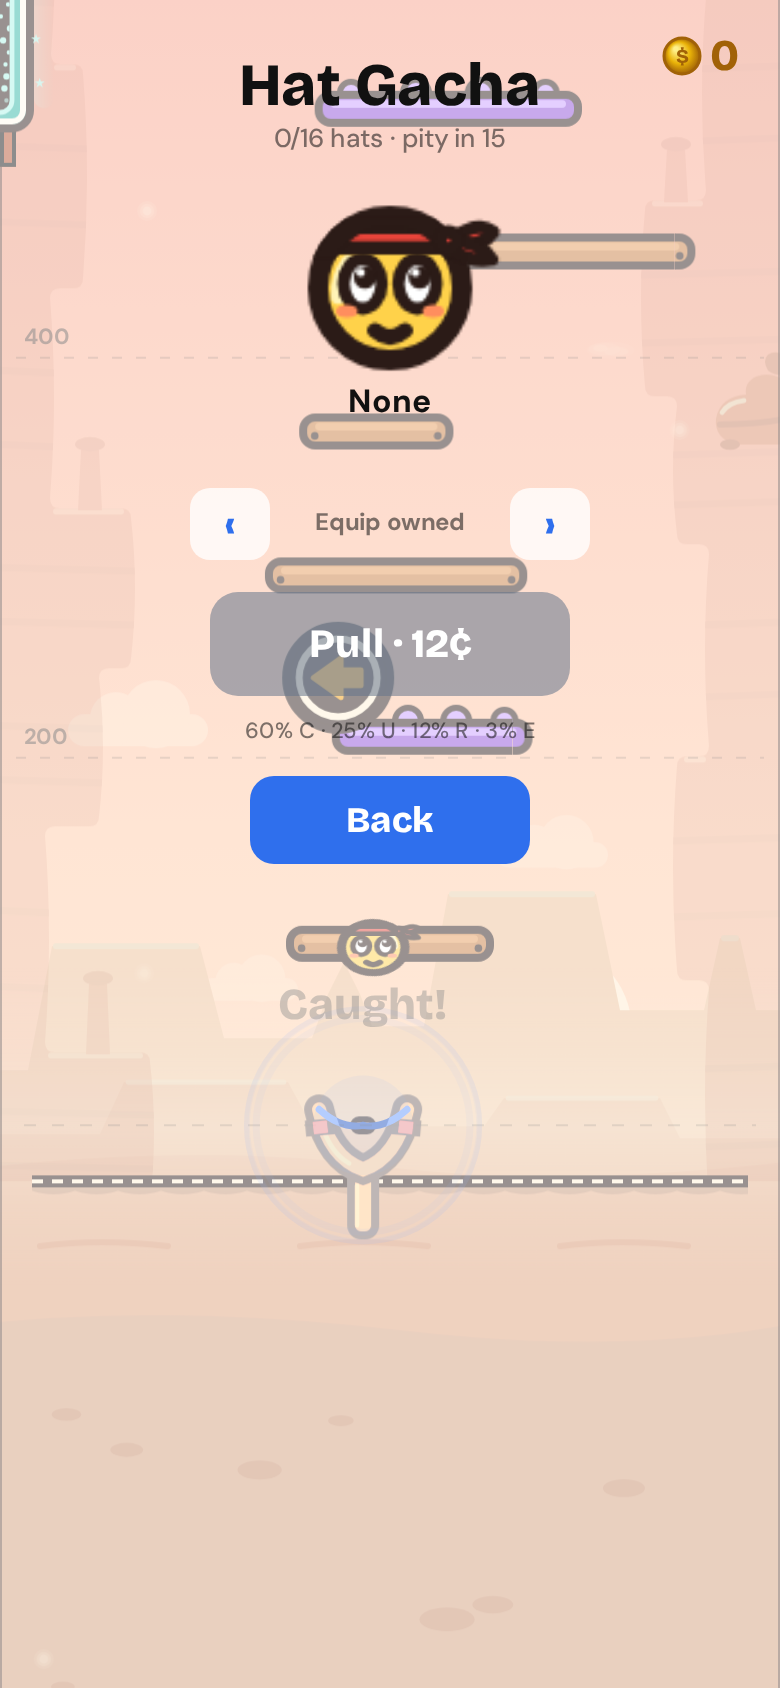
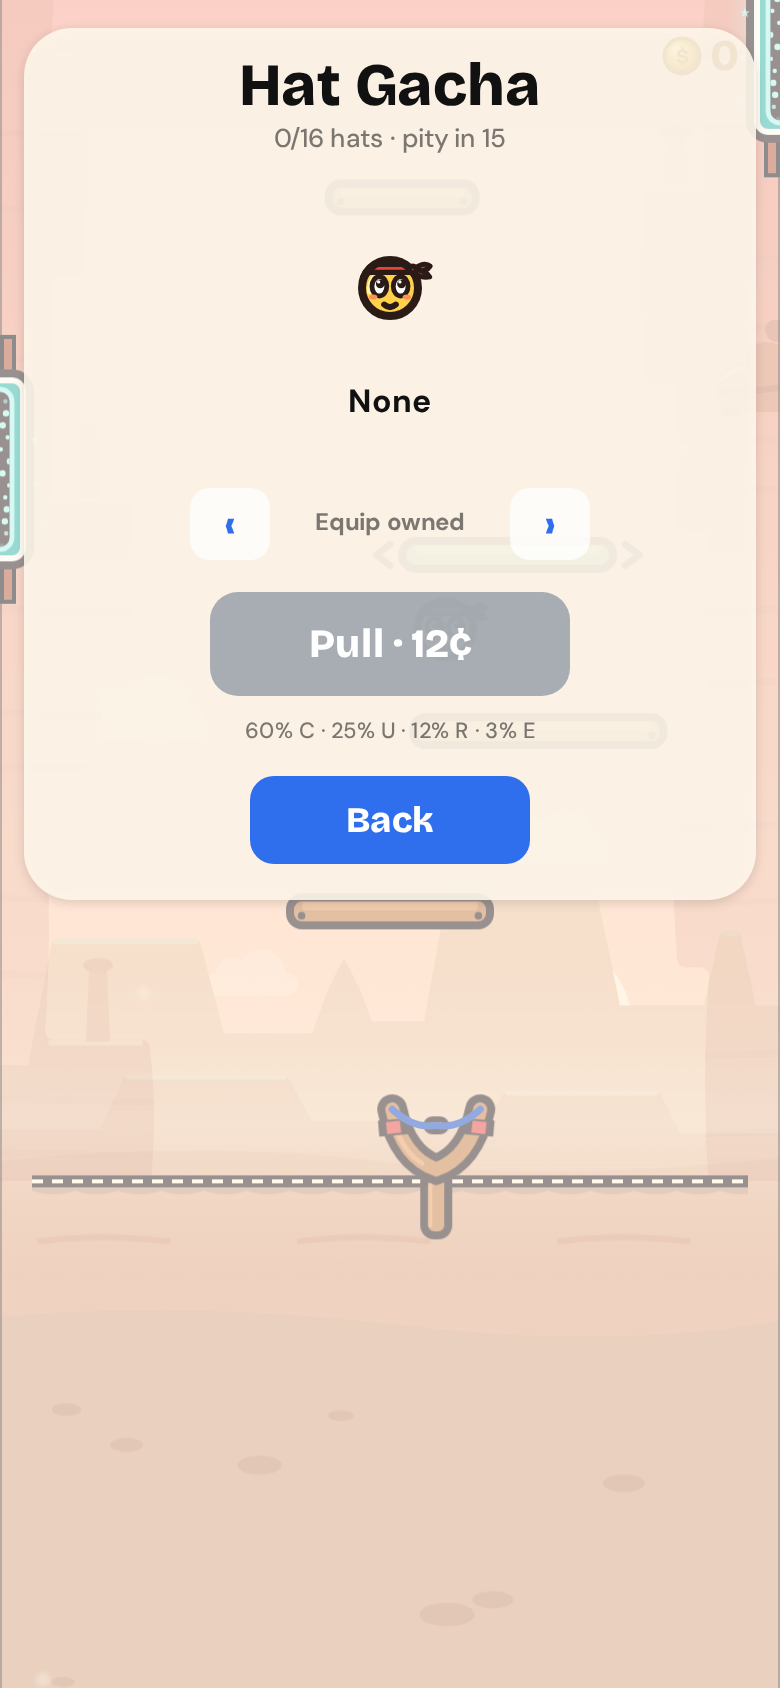
Draw gacha previews at the title-ball scale and panel the shop cards.
The layout radius was scaling ball_classic and the headband ink restroke
up together, so Hat and Trail previews read as a dark disc. Shop, Hats,
and Trails now use the title cream panel and hide the ruler, score pops,
launch guide, and catch burst.

diff --git a/src/game/Renderer.ts b/src/game/Renderer.ts
@@ -1206,17 +1206,7 @@ export class Renderer {
       const tapY = tagY + 36 + (showBests ? 50 : 8) + 52 + 48 + 42
       const panelTop = tagY - 14
       const panelBottom = tapY + 16
-      const panelX = 12
-      const panelW = width - 24
-      ctx.save()
-      ctx.shadowColor = "rgba(43, 27, 23, 0.18)"
-      ctx.shadowBlur = 12
-      ctx.shadowOffsetY = 3
-      ctx.fillStyle = "rgba(255, 248, 236, 0.88)"
-      ctx.beginPath()
-      roundRect(ctx, panelX, panelTop, panelW, panelBottom - panelTop, 24)
-      ctx.fill()
-      ctx.restore()
+      fillCreamPanel(ctx, 12, panelTop, width - 24, panelBottom - panelTop)
     }
 
     if (logo && logoPlace) {
@@ -1871,6 +1861,18 @@ export class Renderer {
     drawLifetimeCoins(ctx, width, lifetimeCoins)
 
     const topPad = 36 + safeAreaInsetTop()
+    const previewY = topPad + 108
+    const equipY = previewY + 100
+    const pullH = 52
+    const pullY = equipY + 52
+    const backH = 44
+    const backY = Math.min(height - backH - 20, pullY + pullH + 40)
+    if (!revealing && this.useArt()) {
+      const panelTop = topPad - 22
+      const panelBottom = backY + backH + 18
+      fillCreamPanel(ctx, 12, panelTop, width - 24, panelBottom - panelTop)
+    }
+
     ctx.textAlign = "center"
     ctx.textBaseline = "middle"
     ctx.fillStyle = theme.ink
@@ -1886,7 +1888,6 @@ export class Renderer {
       topPad + 34,
     )
 
-    const previewY = topPad + 108
     if (!revealing) {
       ctx.save()
       ctx.translate(cx, previewY)
@@ -1919,7 +1920,6 @@ export class Renderer {
     }
 
     const arrowW = 40
-    const equipY = previewY + 100
     const equipPrev: ScreenRect = { x: cx - 100, y: equipY, w: arrowW, h: 36 }
     const equipNext: ScreenRect = { x: cx + 60, y: equipY, w: arrowW, h: 36 }
     if (!revealing) {
@@ -1941,10 +1941,9 @@ export class Renderer {
 
     const canAfford = lifetimeCoins >= GACHA_PULL_COST
     const pullW = 180
-    const pullH = 52
     const pull: ScreenRect = {
       x: cx - pullW / 2,
-      y: equipY + 52,
+      y: pullY,
       w: pullW,
       h: pullH,
     }
@@ -1963,10 +1962,9 @@ export class Renderer {
     }
 
     const backW = 140
-    const backH = 44
     const back: ScreenRect = {
       x: cx - backW / 2,
-      y: Math.min(height - backH - 20, pull.y + pullH + 40),
+      y: backY,
       w: backW,
       h: backH,
     }
@@ -2032,6 +2030,18 @@ export class Renderer {
     drawLifetimeCoins(ctx, width, lifetimeCoins)
 
     const topPad = 36 + safeAreaInsetTop()
+    const pickerH = 64
+    const rowGap = 56
+    const rowsTop = topPad + 56
+    const backH = 44
+    const ballPickerY = rowsTop + 2 * (pickerH + rowGap)
+    const backY = Math.min(height - backH - 20, ballPickerY + pickerH + 36)
+    if (this.useArt()) {
+      const panelTop = topPad - 22
+      const panelBottom = backY + backH + 18
+      fillCreamPanel(ctx, 12, panelTop, width - 24, panelBottom - panelTop)
+    }
+
     ctx.textAlign = "center"
     ctx.textBaseline = "middle"
     ctx.fillStyle = theme.ink
@@ -2041,10 +2051,7 @@ export class Renderer {
     const arrowW = 34
     const iconBox = 48
     const pickerW = arrowW + iconBox + arrowW
-    const pickerH = 64
-    const rowGap = 56
     const labelOffset = 22
-    const rowsTop = topPad + 56
     const rows = [
       {
         kind: "slingshot" as const,
@@ -2139,10 +2146,9 @@ export class Renderer {
     }
 
     const backW = 140
-    const backH = 44
     const back: ScreenRect = {
       x: cx - backW / 2,
-      y: Math.min(height - backH - 20, ballRow.picker.y + ballRow.picker.h + 36),
+      y: backY,
       w: backW,
       h: backH,
     }
@@ -2778,6 +2784,25 @@ function drawMenuCoinIcon(
   ctx.textAlign = "center"
   ctx.textBaseline = "middle"
   ctx.fillText("$", x, y + 0.5)
+  ctx.restore()
+}
+
+/** Title-screen card: cream fill, r24, soft ink shadow. */
+function fillCreamPanel(
+  ctx: CanvasRenderingContext2D,
+  x: number,
+  y: number,
+  w: number,
+  h: number,
+): void {
+  ctx.save()
+  ctx.shadowColor = "rgba(43, 27, 23, 0.18)"
+  ctx.shadowBlur = 12
+  ctx.shadowOffsetY = 3
+  ctx.fillStyle = "rgba(255, 248, 236, 0.88)"
+  ctx.beginPath()
+  roundRect(ctx, x, y, w, h, 24)
+  ctx.fill()
   ctx.restore()
 }
 

diff --git a/src/game/Game.ts b/src/game/Game.ts
@@ -1663,13 +1663,21 @@ export class Game implements BotGameApi {
     const bestHeight = this.score.bestMaxHeight
     const highScore = this.score.highScore
     const backgroundStyle = this.cosmetics.getEquippedBackgroundStyle(bestHeight, highScore)
-    const onTitle =
-      (this.menuDemo || this.state === "menu") && this.menuScreen === "title"
+    const inMenu = this.menuDemo || this.state === "menu"
+    const onTitle = inMenu && this.menuScreen === "title"
+    // Shop, Hats, and Trails share the title's hidden attract chrome.
+    // Caught! stays on the title; on these cards it paints through the buttons.
+    const onMenuCard =
+      inMenu &&
+      (this.menuScreen === "shop" ||
+        this.menuScreen === "hatGacha" ||
+        this.menuScreen === "trailGacha")
+    const hideRuler = onTitle || onMenuCard
     this.renderer.begin(cam, dt, this.score.startHeight, backgroundStyle, {
       portals: this.platforms.portals,
       turrets: this.platforms.turrets,
     })
-    if (!onTitle) this.renderer.drawAltitudeMarkers(cam, this.score.startHeight)
+    if (!hideRuler) this.renderer.drawAltitudeMarkers(cam, this.score.startHeight)
     this.renderer.drawMaxHeightLine(
       cam,
       this.score.heightLineWorldY,
@@ -1739,16 +1747,16 @@ export class Game implements BotGameApi {
       pulse,
       slingStyle,
       slingshotStyle,
-      !onTitle,
+      !hideRuler,
     )
-    if (this.catchBurst > 0) {
+    if (this.catchBurst > 0 && !onMenuCard) {
       this.renderer.drawCatchBurst(
         cam,
         this.slingshot,
         this.catchBurst / CATCH_BURST_DURATION,
       )
     }
-    if (!onTitle) this.renderer.drawScorePopups(cam, this.scorePopups)
+    if (!hideRuler) this.renderer.drawScorePopups(cam, this.scorePopups)
 
     if (trajOrigin && trajVel) {
       this.renderer.drawTrajectory(cam, trajOrigin, trajVel)

diff --git a/src/game/art/drawArt.ts b/src/game/art/drawArt.ts
@@ -653,8 +653,13 @@ export function drawBallArt(
 
 /**
  * Shop and menu previews of the default ball. Same stage-1 sprites as play
- * (`ball_classic` + idle face). The headband is the default hat; callers that
- * draw another hat pass false. Code-drawn ball styles stay on drawBallStyle.
+ * (`ball_classic` + idle face + default headband) at the authored scale.
+ *
+ * Callers pass the old code-drawn circle radius (up to 36). That radius is
+ * not the gameplay radius: `ball_classic` is already the r14 ball at scale 1,
+ * and `hat_headband` bakes a solid ink restroke sized for that ball. Scaling
+ * the pair by radius/14 turns the restroke into a dark disc behind the face.
+ * Shrink only when the slot is smaller than the title ball.
  */
 export function drawClassicMenuBall(
   ctx: CanvasRenderingContext2D,
@@ -663,7 +668,7 @@ export function drawClassicMenuBall(
   withHeadband: boolean,
 ): boolean {
   if (!artReady()) return false
-  const scale = radius / 14
+  const scale = Math.min(1, radius / 14)
   if (!drawSprite(ctx, "character/ball_classic", 0, 0, { scale })) return false
   drawSprite(ctx, "character/face_9f", 0, 0, {
     scale,
